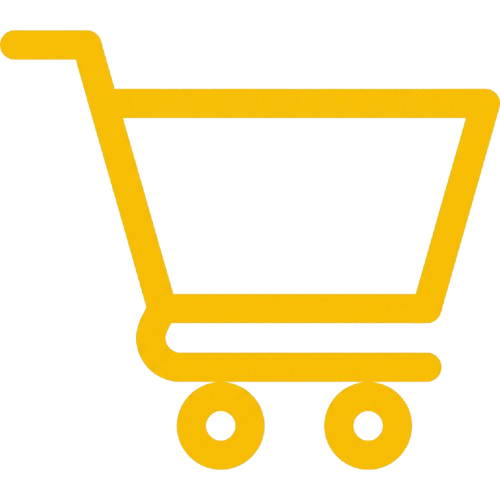
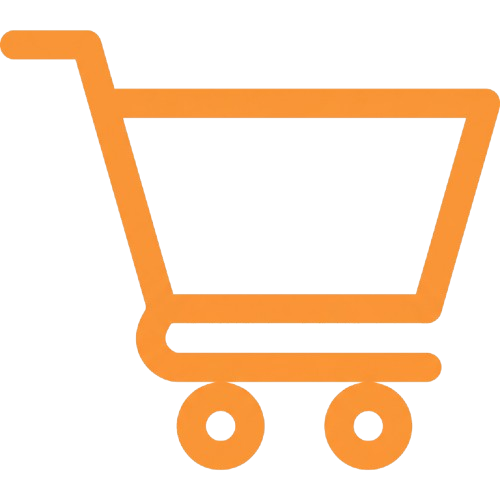
Aperfeiçoamento da pagina Home

Changed region(s): [[0.0, 0.06, 1.0, 0.96]]

diff --git a/style1.css b/style1.css
@@ -29,7 +29,7 @@ header{
 }
 
 .abaVertical a{
-    color: white;
+    color: rgb(241, 216, 165);
     text-decoration: none;
 }
 
@@ -64,5 +64,69 @@ main{
 }
 
 .anuncioHome{
-    
+    display: flex;
+    width: 100%;
+    height: 50vh;
 }
+
+.divAnuncioHome{
+    display: flex;
+    flex-direction: column;
+    height: 100%;
+    width: 40%;
+    background-color: rgb(43, 26, 19);
+    justify-content: center;
+    padding-left: 5%;
+    padding-right: 5%;
+}
+
+.divAnuncioHome h1{
+    color: rgb(241, 216, 165);
+    font-size: 50px;
+    margin: 0;
+    display: inline-block; 
+    transform: scaleY(1.1); 
+    transform-origin: left bottom;
+    line-height: 1.1; 
+}
+
+.numeroColorido{
+    color: rgb(246, 153, 56);
+}
+
+.divAnuncioHome p{
+    color: rgb(241, 216, 165);
+    font-size: 20px;
+}
+
+.divImagemHome{
+    height: 100%;
+    width: 50%;
+    background-image: url(imagens/imagemHome.png);
+    background-repeat: no-repeat;
+    background-size: cover;
+    background-position: center;
+}
+
+.linkCatalogo{
+    display: block;
+    text-decoration: none;
+    color: inherit;
+}
+
+.divCatalogo{
+    display: flex;
+    width: 30%;
+    height: 6vh;
+    background-color: rgb(246, 153, 56);
+    border-radius: 55px;
+    align-items: center;
+    justify-content: center;
+}
+
+.divCatalogo p{
+    color: rgb(43, 26, 19);
+    font-size: 16px;
+    font-weight: 800;
+}
+

diff --git a/pHome.html b/pHome.html
@@ -35,8 +35,24 @@
 
     <main>
         <div class="anuncioHome">
+            <div class="divAnuncioHome">
+                <h1>O SOM AUTÊNTICO DAS DÉCADAS DE <span class="numeroColorido">60</span> E <span class="numeroColorido">70</span></h1>
 
+                <p>A sua loja online de vinis clássicos, importados e raridades</p>
+
+                <a href="" class="linkCatalogo">
+                    <div class="divCatalogo">
+                        <p>VER CATÁLAGO</p>
+                    </div>
+                </a>
+            </div>
+
+            <div class="divImagemHome">
+
+            </div>
         </div>
+
+
     </main>
 </body>
 </html>
